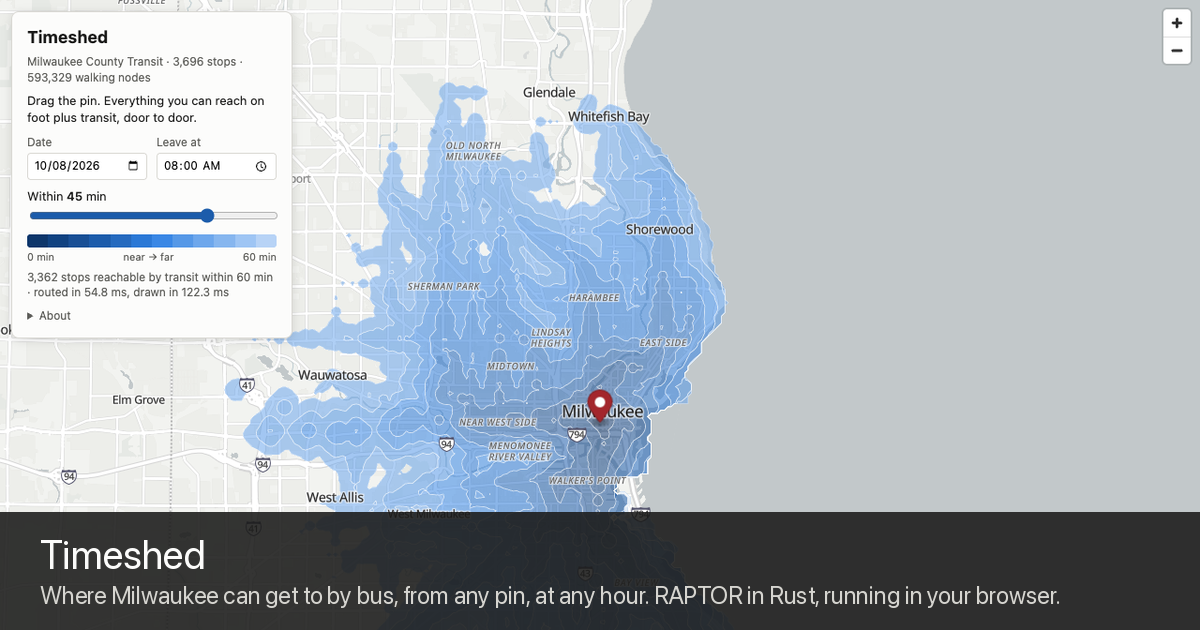
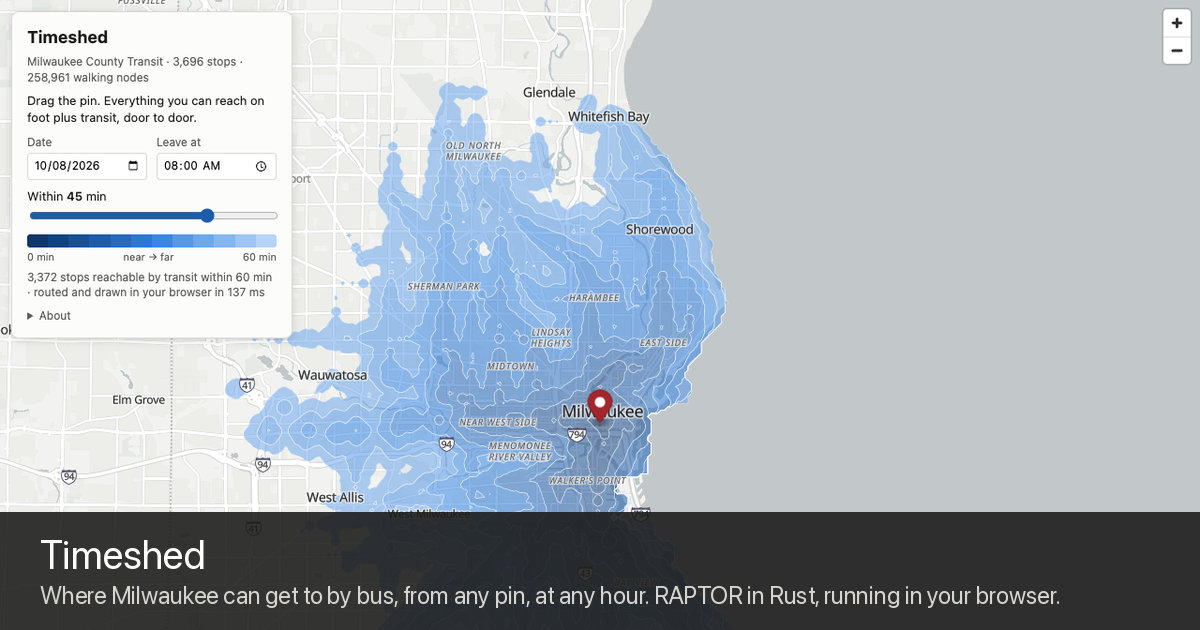
README: numbers that match the contracted graph, one set of timings, section order, fuller diagram; screenshots from the live site

diff --git a/README.md b/README.md
@@ -17,7 +17,7 @@ to the door. Because the schedule is real, 8 am and 11 pm give different shapes.
 <https://timeshed.frankbs.dev/live/>. The same Rust engine is compiled
 to WebAssembly and runs in a web worker; the page downloads a 7 MB bundle (the
 whole county's schedule and walking network) once, then answers each drag in
-about 100 ms with no server involved.
+about 140 ms with no server involved.
 
 Everything is built from two free sources: the [MCTS GTFS feed](https://kamino.mcts.org/gtfs/google_transit.zip)
 and the [Geofabrik Wisconsin extract](https://download.geofabrik.de/north-america/us/wisconsin.html).
@@ -57,6 +57,13 @@ All figures are population weighted.
 
 ![Jobs reachable within 45 minutes, by departure window](docs/figures/jobs_by_time_of_day.png)
 
+![Share of residents by jobs reachable, one curve per departure window](docs/figures/residents_by_access.png)
+
+The interactive version, with every block hoverable and each window selectable, is in
+[`docs/`](docs/) and published at <https://timeshed.frankbs.dev/>.
+The per-block table is written to `data/analysis/access_by_block.csv` by the analysis
+script.
+
 ### Who loses after midnight
 
 The obvious follow-up is whether the people who work nights are the ones left
@@ -91,13 +98,6 @@ can get to a night shift depends on whether you happen to live on one of them.
 (`analysis/night_shift.py`; "low-wage" is LODES earnings band CE01, which also
 includes part-time and student workers.)
 
-![Share of residents by jobs reachable, one curve per departure window](docs/figures/residents_by_access.png)
-
-The interactive version, with every block hoverable and each window selectable, is in
-[`docs/`](docs/) and published at <https://timeshed.frankbs.dev/>.
-The per-block table is written to `data/analysis/access_by_block.csv` by the analysis
-script.
-
 ### Caveats
 
 - Schedules, not real time. A 45-minute budget on paper is a 45-minute budget on a day
@@ -120,12 +120,16 @@ script.
 ```
 GTFS zip ──> gtfs.rs ──> timetable.rs ──┐
                                         ├──> engine.rs (snap stops, build footpaths) ──> bundle.bin
-OSM .pbf ──> osm.rs  ──> walk.rs ───────┘
-                                                          │
+OSM .pbf ──> osm.rs  ──> walk.rs ───────┘                                                  │
+                                                          ┌────────────────────────────────┘
          query:  walk (Dijkstra) ──> raptor.rs ──> walk (multi-source Dijkstra)
+                                        │                 │
+                 reference.rs: brute force, checks raptor.rs on random feeds and the real one
                                                           │
          isochrone.rs: node labels ──> 100 m grid ──> marching squares ──> GeoJSON bands
          access.rs:    node labels ──> destination blocks ──> weighted sums, in parallel
+         wasm.rs:      the same query + isochrone.rs behind wasm-bindgen, for the browser
+         server.rs:    the same behind axum, for `timeshed serve`
 ```
 
 - **Timetable.** GTFS routes are regrouped into RAPTOR routes: trips that share an
@@ -135,8 +139,9 @@ OSM .pbf ──> osm.rs  ──> walk.rs ───────┘
   Service is resolved per date from `calendar.txt` and `calendar_dates.txt`.
 - **Walking graph.** Two passes over the state extract: node coordinates inside the
   bounding box (the stops' box plus 2.5 km), then ways a pedestrian can use. Ways
-  leaving the box are cut at its edge; only the largest connected component is kept.
-  Milwaukee County comes out at 593k nodes and 1.5M directed edges.
+  leaving the box are cut at its edge; only the largest connected component is kept;
+  runs of shape nodes are merged into single edges of at most 150 m. Milwaukee County
+  reads as 593k nodes and ends up at 259k nodes and 818k directed edges.
 - **RAPTOR.** Standard round-based scan with per-round labels, local pruning against the
   best-known arrival and a time budget, binary search for the first catchable trip
   (valid because routes are non-overtaking), and footpaths relaxed to a fixed point
@@ -222,13 +227,12 @@ page instead.
 
 | Step | Time |
 |---|---:|
-| Read the feed (1.0M stop_times) | 0.5 s |
-| Walking graph from the 294 MB state extract | 1.9 s |
-| Full bundle build, including 106k footpaths | 2.6 s |
-| Door-to-door query, 45-minute budget | ~20 ms |
-| 60-minute isochrone with bands, as GeoJSON | ~90 ms |
+| Read the feed (1.0M stop_times) | 0.6 s |
+| Full bundle build: walking graph from the 294 MB state extract, contraction, 106k footpaths | ~3 s |
+| Door-to-door query, 45-minute budget | ~13 ms |
+| 60-minute isochrone: 21 ms routing + 41 ms of bands, as GeoJSON | ~60 ms |
 | Batch: 10,690 origins × 12 departures | ~110 s |
-| Same 60-minute isochrone, WebAssembly in Brave | ~130 ms |
+| Same 60-minute isochrone, WebAssembly in Brave, including drawing | ~140 ms |
 
 ## Running it
 
